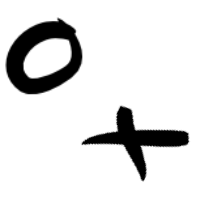
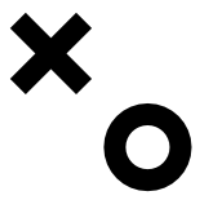
domain setup

Changed region(s): [[0.39, 0.51, 0.99, 0.96], [0.0, 0.06, 0.48, 0.48]]

diff --git a/src/components/Right.js b/src/components/Right.js
@@ -35,7 +35,7 @@ const Right = () => {
                 smooth={true}
                 offset={0}
                 duration={700}
-                ><button className="button">Tic-tac-toe</button>
+                ><button className="button">Tic-Tac-Toe</button>
             </Link>
 
         </div>

diff --git a/src/index.css b/src/index.css
@@ -256,8 +256,6 @@
   left: 13vw;
   bottom: 7vw;
   width: 19vw;
-  opacity: 0.5;
-  transform: rotate(-20deg);
 }
 
 .xo-img {
@@ -265,7 +263,6 @@
   right: 15vw;
   bottom: 9vw;
   width: 13vw;
-  opacity: 0.5;
 }
 
 /* Contact form */
